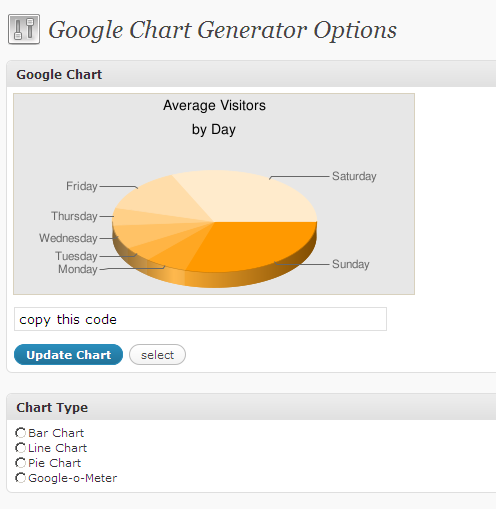
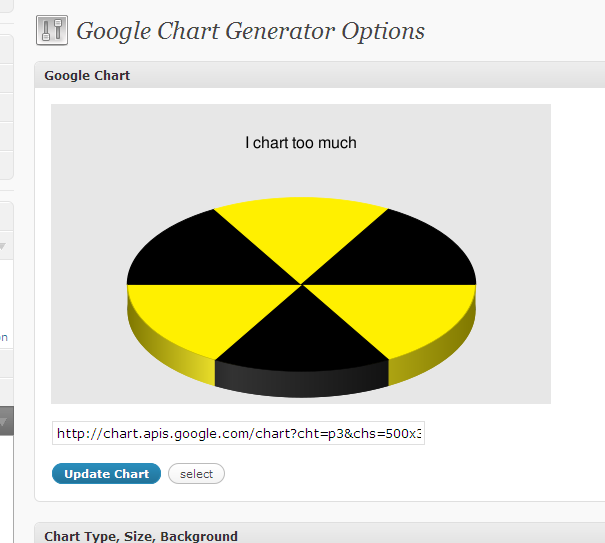
replacing tag at trunk
git-svn-id: https://plugins.svn.wordpress.org/google-chart-generator/trunk@123288 b8457f37-d9ea-0310-8a92-e5e31aec5664

diff --git a/google-chart-generator.php b/google-chart-generator.php
@@ -3,7 +3,7 @@
 Plugin Name: Google Chart Generator
 Plugin URI: http://brockangelo.com/wordpress/plugins/google-chart-generator/
 Description: Allows the user to create and insert a Google Chart in posts and pages.
-Version: 1.0.3
+Version: 1.0.4
 Author: Brock Angelo
 Author URI: http://brockangelo.com
 
@@ -23,20 +23,8 @@ along with this program; if not, write to the Free Software
 Foundation, Inc., 51 Franklin St, Fifth Floor, Boston, MA  02110-1301  USA
 */
 
-
-# add_action('google_chart_generator', 'delete_spam_now');
-
-# function gcg_start_schedule() {
-# 	wp_schedule_event(time(), 'daily', 'google_chart_generator');
-# }
-
-function gcg_chart_now() {
-	global $wpdb;
-}
-
 add_action('admin_menu', 'gcg_menu');
 add_action('admin_head', 'gcg_head');
-add_action('wp_head', 'gcg_head');
 
 function gcg_menu() {
   add_options_page('Google Chart Generator Options', 'Google Chart Generator', 8, __FILE__, 'gcg_options');
@@ -44,19 +32,13 @@ function gcg_menu() {
 
 function gcg_head() {
 	?>
-	<script type="text/javascript">
-		function check(gcg_charttype)
-			{
-			document.getElementById("chart_link").value=gcg_charttype;
-			}
-		function selText()
-			{
-			document.getElementById("chart_link").select();
-			}
-
-	</script>
-	
 <script type="text/javascript">
+
+	function selText()
+		{
+		document.getElementById("chart_link").select();
+		}
+
 	function gcg_create_link()
 	{
 	// Chart Type
@@ -83,49 +65,54 @@ function gcg_head() {
 	
 	// Chart Data
 	chartdata=document.forms[0].gcg_chartdata;
-	data="";
-	for (i=0;i<chartdata.length;i++)
+	var data = new Array();
 	{
-	  if (chartdata[i].value)
-	  {
-		data=data + chartdata[i].value;
-		if (chartdata[i+1].value)
-		{
-		data=data + ",";
-		}
-	  }
+	for (i=0;i<chartdata.length;i++)
+		if (chartdata[i].value) {
+		data[i] = chartdata[i].value;
+	  	}
 	}
 		
 	// Chart Data Colors
 	chartdata_colors=document.forms[0].gcg_data_color;
-	chart_colors="";
+	var chart_colors= new Array();
 	for (i=0;i<chartdata_colors.length;i++)
 	{
 	  if (chartdata_colors[i].value)
 	  {	  
-		chart_colors=chart_colors + chartdata_colors[i].value;
-		if (chartdata_colors[i+1].value)
-		{
-		chart_colors=chart_colors + "|";
+		chart_colors[i] = chartdata_colors[i].value;
 		}
-	  }
 	}
+	var data_color_string = chart_colors.join("|");
+	if (data_color_string != "") {
+	data_color_string = "&chco=" + data_color_string;
+	}
+	
 	
 	// Chart Labels
 	chartlabels=document.forms[0].gcg_labels;
-	labels="";
+	var labels = new Array();
 	for (i=0;i<chartlabels.length;i++)
 	{
 	  if (chartlabels[i].value)
 	  {
-		labels=labels + chartlabels[i].value + "|";
-		
-	  }
-	  else
-		{
-		labels=labels + "|";
+		labels[i] = chartlabels[i].value;
 		}
+	}
+	var labelstring = labels.join("|");
+	if ((labelstring != "") && (charttype != "cht=lc")){
+	labelstring = "&chl=" + labelstring;
+	} else if ((labelstring != "") && ((charttype == "cht=lc") || (charttype == "cht=bvs"))){
+	labelstring = "&chxt=x&chxl=0:|" + labelstring;
+	}
+
+	// Show Chart Data Point Labels
 	
+	if (document.forms[0].gcg_chart_point_labels.checked) {
+		data_point_labels = "&chm=N*f0*,000000,0,-1,11";
+	}
+	else {
+	data_point_labels = "";
 	}
 	
 	// Chart Title
@@ -171,14 +158,10 @@ function gcg_head() {
 		}
 	}
 	
-	
-	
-	
-
-
-	document.getElementById("chart_link").value="http://chart.apis.google.com/chart?" + charttype + "&chs=" + chart_width + "x" + chart_height + chart_bg + "&chd=t:" + data + "&chco=" + chart_colors + "&chl=" + labels + title + title_font;
+	document.getElementById("chart_link").value="http://chart.apis.google.com/chart?" + charttype + "&chs=" + chart_width + "x" + chart_height + chart_bg + "&chd=t:" + data + data_color_string + data_point_labels + labelstring + title + title_font;
 	document.getElementById("chart").src=document.getElementById("chart_link").value;
-	}
+	
+}
 </script>
 
 <?php
@@ -206,22 +189,22 @@ function gcg_options() {
 		</div>
 		<div id="gcg_sidebar" class="postbox">
 		<h3 class="hndle">
-		<span>Version Notes: 1.0.3</span>
+		<span>Version Notes: 1.0.4</span>
 		</h3>
 		<div class="inside">
 		<ul>
-		<li>Chart Titles and colors rock! Have you <a href="http://wordpress.org/extend/plugins/google-chart-generator/">rated this plugin</a> yet?<br/>
+		<li>Data Points and Axis Labels! Have you <a href="http://wordpress.org/extend/plugins/google-chart-generator/">rated this plugin</a> yet?<br/>
 		<br />
 		Ideas & Known Issues:<br /><br />
-		1. Doesn't actually support 8 data sets.<br />
-		2. There are so many more Google Charts. More to come.<br />
-		3. I plan to customize the input depending on what type of chart you are using. This will give much better results.<br />
-		4. Once I get static data input pretty polished, I'll move on to link this into the WordPress database so you can see dynamic charts for things like "Today's Visitors were from these continents". Pretty dan shlick.<br />
-		5. Add button on the write post screen. (for write/edit and posts/pages)<br />
-		6. Save charts to a table so that you can insert "favorite charts"<br />
-		7. IE looks really crappy. I know. I'll work on that tomorrow. <br /><br />
+		1. Now supports up to 8 data points!<br />
+		2. The labels box will now give you the most relevant looking results possible: if you are using a bar chart, the labels used are called "Axis Labels" (according to Google) but when you switch over to a Pie Chart, the labels intelligently move to become data points.<br />
+		3. IE no longer looks <i>really</i> crappy.<br />
+		4. Data Points Labels! Add these to Line & Bar charts.<br />
+		5. Once I get static data input pretty polished, I'll move on to link this into the WordPress database so you can see dynamic charts for things like "Today's Visitors were from these continents". Pretty dang shlick.<br />
+		6. Add button on the write post screen. (for write/edit and posts/pages)<br />
+		7. Save charts to a table so that you can insert "favorite charts"<br /><br />
 
-		If you like the direction this plugin is headed, please <a href="http://brockangelo.com/wordpress/plugins/google-chart-generator/">leave feedback</a> and <a href="http://wordpress.org/extend/plugins/google-chart-generator/">give me five stars</a>.</li><br />
+		If you like the direction this plugin is headed, please <a href="http://brockangelo.com/wordpress/plugins/google-chart-generator/">leave feedback</a>, spread the word, or <a href="http://wordpress.org/extend/plugins/google-chart-generator/">give me some stars</a>.</li><br />
 		</ul>
 		</div>
 		</div>
@@ -235,94 +218,102 @@ function gcg_options() {
 		<div id="chart_box" class="postbox">
 		<h3 id="chart_box_hndle" class="hndle">Google Chart</h3>
 		<div id="chart_box_inside" class="inside">
-		<img id="chart" src="http://chart.apis.google.com/chart?cht=p3&chs=400x200&chf=bg,s,E7E7E7&chd=t:75,17,12,19,14,35,80&chl=Sunday|Monday|Tuesday|Wednesday|Thursday|Friday|Saturday&chtt=Average+Visitors|by+Day&chts=000000,14" style="border: 1px solid #D8D1BE" />
+		<table cellspacing="10">
+		<td width="250">
+		<img id="chart" src="http://chart.apis.google.com/chart?cht=lc&chs=500x300&chf=bg,s,E7E7E7&chd=t:41,100,22,72,26&chm=N*f0*,000000,0,-1,11&chxt=x&chxl=0:|Mon|Tue|Wed|Thur|Fri&chtt=Daily+Downloads|for+this plugin&chts=000000,16" />
 		<br />
 		<br />
 		<input type="text" id="chart_link" size="50" value="copy this code"><br /><br />
 		<input type="button" class="button-primary" onclick="gcg_create_link()" value="Update Chart">
 		<input type="button" class="button" value="select" onclick="selText()"> 
-		</div>
-		</div>
-		
-		<div id="chart_type_box" class="postbox">
-		<h3 id="chart_type_box_hndle" class="hndle">Chart Type</h3>
-		<div id="chart_type_box_inside" class="inside">
-		<input type="radio" name="gcg_charttype" value="bhs">Bar Chart<br />
-		<input type="radio" name="gcg_charttype" value="lc">Line Chart<br />
-		<input type="radio" name="gcg_charttype" value="p3">Pie Chart<br />
-		<input type="radio" name="gcg_charttype" value="gom">Google-o-Meter<br /></div>
-		</div>
-		
-		<div id="chart_size_box" class="postbox">
-		<h3 id="chart_size_box_hndle" class="hndle">Chart Image</h3>
-		<div id="chart_size_box_inside" class="inside">
-		<input type="text" size="4" name="gcg_width" value="400"> Width<br />
-		<input type="text" size="4" name="gcg_height" value="200"> Height<br />
-		<input type="text" size="6" name="gcg_bgcolor" value="E7E7E7"> Background Color<br />
-		</div>
-		</div>
-		
-		<div id="chart_title_box" class="postbox">
-		<h3 id="chart_title_box_hndle" class="hndle">Chart Title</h3>
-		<div id="chart_title_box_inside" class="inside">
-		<table cellspacing="10">
-		<td>
-		<input type="text" size="2" name="gcg_title_font_size" value="12"> Font Size<br />
-		<input type="text" size="6" name="gcg_title_font_color" value="000000"> Font Color<br />
-		</td>
-		<td>
-		<input type="text" size="20" id="gcg_title_line1" value="Average Visitors"> Line 1<br />
-		<input type="text" size="20" id="gcg_title_line2" value="by Day"> Line 2<br />
 		</td>
 		</table>
 		</div>
 		</div>
 		
-		<div id="data_points_box" class="postbox">
+		<div id="chart_type_box" class="postbox">
+		<h3 id="chart_type_box_hndle" class="hndle">Chart Type, Size, Background</h3>
+		<div id="chart_type_box_inside" class="inside">
+		<table cellspacing="10">
+		<td width="250">
+		<input type="radio" name="gcg_charttype" value="bvs">Bar Chart<br />
+		<input type="radio" name="gcg_charttype" value="lc">Line Chart<br />
+		<input type="radio" name="gcg_charttype" value="p3">Pie Chart<br />
+		<input type="radio" name="gcg_charttype" value="gom">Google-o-Meter<br />
+		</td>
+		<td width="250">
+		<input type="text" size="6" name="gcg_width" value="500"> Width<br />
+		<input type="text" size="6" name="gcg_height" value="300"> Height<br />
+		<input type="text" size="6" name="gcg_bgcolor" value="E7E7E7"> Background Color<br />
+		</td>
+		</table>
+		</div>
+		</div>
+
+		
+		<div id="chart_title_box" class="postbox">
+		<h3 id="chart_title_box_hndle" class="hndle">Chart Title</h3>
+		<div id="chart_title_box_inside" class="inside">
+		<table cellspacing="10">
+		<td width="250">
+		<input type="text" size="20" id="gcg_title_line1" value="Daily Downloads"> Line 1<br />
+		<input type="text" size="20" id="gcg_title_line2" value="for this plugin"> Line 2<br />
+		</td>
+		<td width="250">
+		<input type="text" size="6" name="gcg_title_font_size" value="16"> Font Size<br />
+		<input type="text" size="6" name="gcg_title_font_color" value="000000"> Font Color<br />
+		</td>
+		</table>
+		</div>
+		</div>
+		
+		<div id="chart_data_points_box" class="postbox" style="display:block">
 		<h3 id="data_points_box_hndle" class="hndle">Data Points</h3>
 		<div id="data_points_box_inside" class="inside">
 		<table cellspacing="10">
-		<tr>
-		<input type="text" size="4" name="gcg_chartdata" value="15"> Data1 
-		<input type="text" size="6" name="gcg_data_color" value="00B454"> Color		
-		<input type="text" size="10" name="gcg_labels" value="Sunday"> Label<br />
-		</tr>
-		<tr>
-		<input type="text" size="4" name="gcg_chartdata" value="65"> Data2  
-		<input type="text" size="6" name="gcg_data_color" value="104BA9"> Color	
-		<input type="text" size="10" name="gcg_labels" value="Monday"> Label<br />
-		</tr>
-		<tr>
-		<input type="text" size="4" name="gcg_chartdata" value="35"> Data3  
-		<input type="text" size="6" name="gcg_data_color" value="FFA200"> Color	
-		<input type="text" size="10" name="gcg_labels" value="Tuesday"> Label<br />
-		</tr>
-		<tr>
-		<input type="text" size="4" name="gcg_chartdata" value="95"> Data4  
-		<input type="text" size="6" name="gcg_data_color" value="FF3900"> Color	
-		<input type="text" size="10" name="gcg_labels" value="Wednesday"> Label<br />
-		</tr>
-		<tr>
-		<input type="text" size="4" name="gcg_chartdata" value=""> Data5  
+		<td width="450">
+		
+		<input type="text" size="4" name="gcg_chartdata" value="41"> Data1 
+		<input type="text" size="6" name="gcg_data_color" value="006600"> Color		
+		<input type="text" size="10" name="gcg_labels" value="Mon"> Label<br />
+
+		<input type="text" size="4" name="gcg_chartdata" value="100"> Data2  
 		<input type="text" size="6" name="gcg_data_color" value=""> Color	
-		<input type="text" size="10" name="gcg_labels" value=""> Label<br />
-		</tr>
-		<tr>
+		<input type="text" size="10" name="gcg_labels" value="Tue"> Label<br />
+
+		<input type="text" size="4" name="gcg_chartdata" value="22"> Data3  
+		<input type="text" size="6" name="gcg_data_color" value=""> Color	
+		<input type="text" size="10" name="gcg_labels" value="Wed"> Label<br />
+
+		<input type="text" size="4" name="gcg_chartdata" value="72"> Data4  
+		<input type="text" size="6" name="gcg_data_color" value=""> Color	
+		<input type="text" size="10" name="gcg_labels" value="Thur"> Label<br />
+
+		<input type="text" size="4" name="gcg_chartdata" value="26"> Data5  
+		<input type="text" size="6" name="gcg_data_color" value=""> Color	
+		<input type="text" size="10" name="gcg_labels" value="Fri"> Label<br />
+
 		<input type="text" size="4" name="gcg_chartdata" value=""> Data6  
 		<input type="text" size="6" name="gcg_data_color" value=""> Color	
 		<input type="text" size="10" name="gcg_labels" value=""> Label<br />
-		</tr>
-		<tr>
+
 		<input type="text" size="4" name="gcg_chartdata" value=""> Data7  
 		<input type="text" size="6" name="gcg_data_color" value=""> Color	
 		<input type="text" size="10" name="gcg_labels" value=""> Label<br />
-		</tr>
-		<tr>
-		<input type="text" size="4" name="gcg_chartdata" value=""> Data8   
+
+		<input type="text" size="4" name="gcg_chartdata" value=""> Data8  
 		<input type="text" size="6" name="gcg_data_color" value=""> Color	
 		<input type="text" size="10" name="gcg_labels" value=""> Label<br />
-		</tr>
-			
+		
+		<br /><br />
+
+		<input type="button" class="button-primary" onclick="gcg_create_link()" value="Update Chart">
+		<input type="button" class="button" onclick="document.forms[0].reset()" value="reset all data"><br />
+		</td>
+		
+		<td width="450" align="right" valign="top">
+		<input type="checkbox" name="gcg_chart_point_labels" checked="checked"> Data Point Labels <i><small>(for Line & Bar charts)</small></i>
+		</td>
 		</table>
 		</div>
 		</div>
